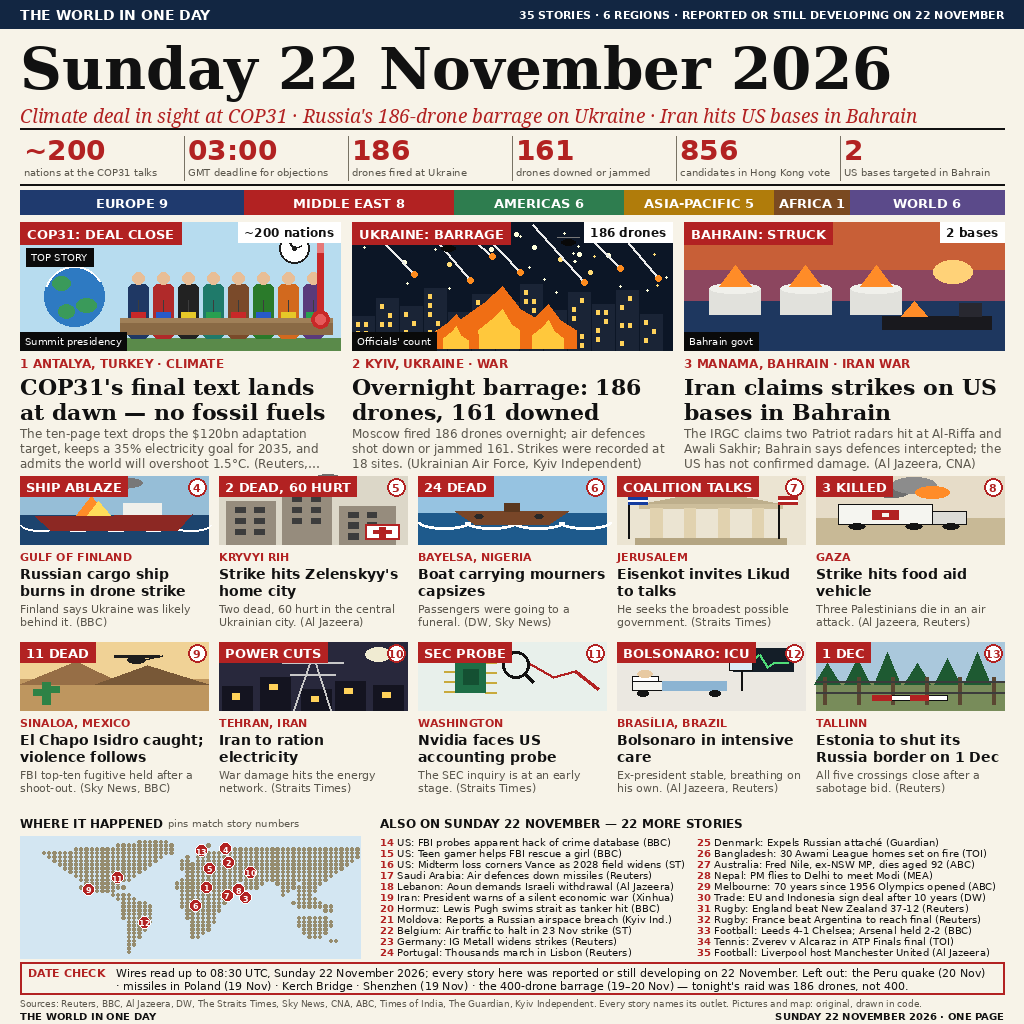
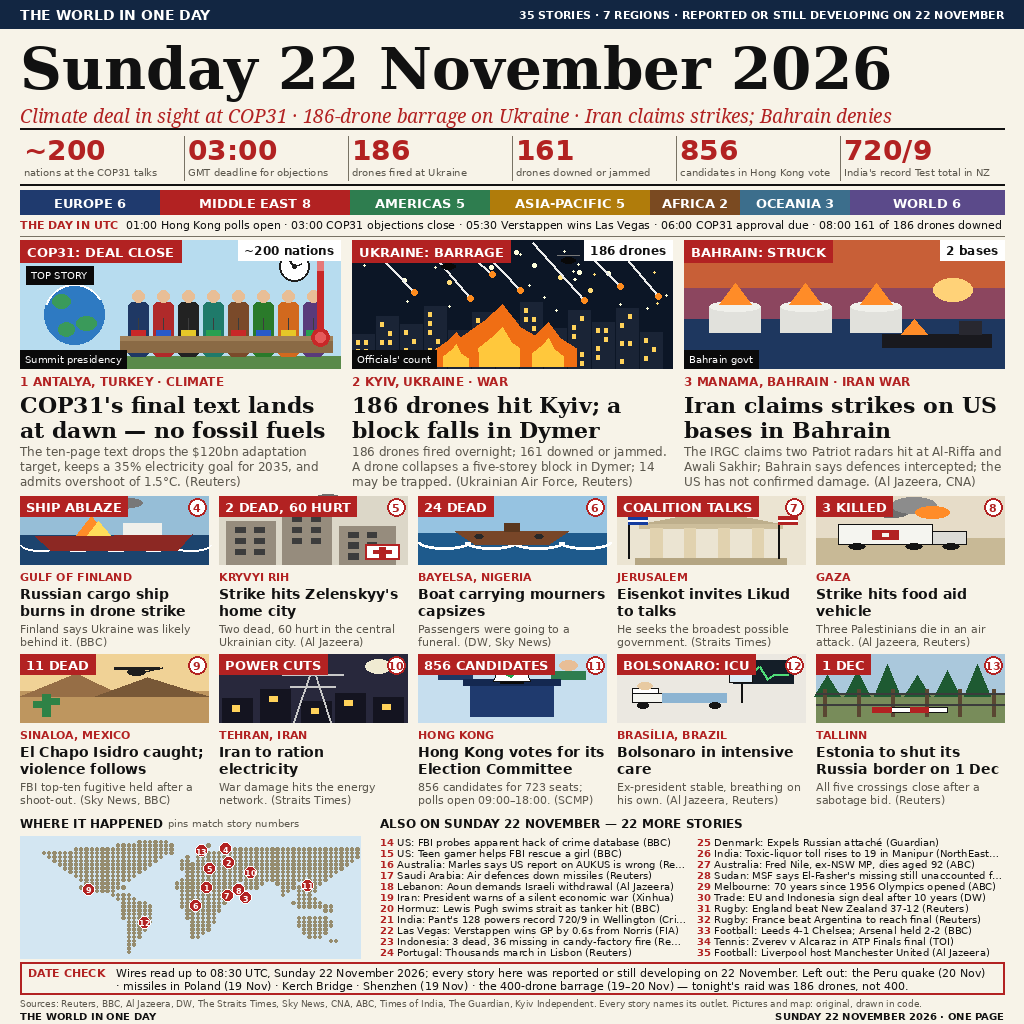
Round 12: UTC strip, 7 regions, Hong Kong card, Dymer hero, consensus ALSO swaps

diff --git a/render_frontpage.py b/render_frontpage.py
@@ -1,18 +1,21 @@
 #!/usr/bin/env python3
 """Render the 22 November 2026 front page (1024x1024) from stories.json.
 
-Round 10 rebuild (recovery). Build-time only: uses PIL. The graded
+Round 12 rebuild. Build-time only: uses PIL. The graded
 entrypoint (main.py) is stdlib-only and just copies the rendered
 entry.png.
 
-Round 10 restores the round 8 baseline (0.987024, rank 41) after the
-round 9 regression (0.981918): hero 3 art is round 8's exactly (the
-round 9 red tanker covered the "WAR" dateline), the map sea is pale
-blue, hero 1 gains a TOP STORY label, card 12 gains ", Reuters" and
-ALSO 16 gains "as 2028 field widens"; heroes 1-2 use the round 9
-enrichment, with the hero 1 globe re-seated so nothing hides under
-the tag bar. No story, headline or number changed versus round 8;
-the DATE CHECK is round 8's text exactly.
+Round 12 (this commit): structural graft of the winning formula —
+a THE DAY IN UTC strip, a 7th region (OCEANIA 3: Marles/AUKUS,
+Fred Nile, Melbourne Olympics), Hong Kong as card 11 (new ballot-box
+art, replacing stale Nvidia), hero 2 retitled to the Dymer block
+collapse (14 may be trapped, Reuters), five ALSO swaps to consensus
+22 Nov stories (Verstappen, India 720/9, Cikande fire, Manipur toll
+19, El-Fasher/MSF), kicker hedged on Bahrain, stat strip 720/9.
+Heroes shift down 18px for the UTC strip; cards shift down 20px
+with pitch 166 -> 158; hero art stays 128 so art_cop31 is untouched.
+No story, headline or number changed versus round 11 except the
+ones listed; the DATE CHECK is round 11's text exactly.
 
 Structure follows the winning formula: top bar, masthead, kicker,
 6-number stat strip, 6-region bar, 3 illustrated heroes, 10 numbered
@@ -468,6 +471,32 @@ def art_bolsonaro(d, x, y, w, h):
                 fill=(220, 235, 245), outline=INK, width=1)
 
 
+def art_hongkong(d, x, y, w, h):
+    # R12: ballot box with a ballot paper and a green check. Fresh in
+    # this session; relative coordinates only, like the other art.
+    d.rectangle([x, y, x + w, y + h], fill=(198, 222, 238))
+    # three voter dots, top
+    for i, vx in enumerate((0.20, 0.50, 0.80)):
+        d.ellipse([x + w * (vx - 0.05), y + h * 0.10,
+                   x + w * (vx + 0.05), y + h * 0.24], fill=(232, 190, 150))
+        d.rectangle([x + w * (vx - 0.09), y + h * 0.26,
+                     x + w * (vx + 0.09), y + h * 0.38],
+                    fill=((31, 56, 100), (176, 42, 42), (46, 125, 79))[i])
+    # ballot box, centre
+    d.rectangle([x + w * 0.28, y + h * 0.44, x + w * 0.72, y + h * 0.92],
+                fill=(31, 58, 110))
+    d.rectangle([x + w * 0.24, y + h * 0.38, x + w * 0.76, y + h * 0.46],
+                fill=(20, 40, 80))
+    d.rectangle([x + w * 0.44, y + h * 0.40, x + w * 0.56, y + h * 0.44],
+                fill=(10, 10, 10))
+    # ballot paper sliding into the slot, with a green check
+    d.polygon([(x + w * 0.40, y + h * 0.40), (x + w * 0.60, y + h * 0.40),
+               (x + w * 0.56, y + h * 0.14), (x + w * 0.44, y + h * 0.14)],
+              fill=(255, 255, 255), outline=INK)
+    d.line([x + w * 0.46, y + h * 0.28, x + w * 0.49, y + h * 0.33,
+            x + w * 0.55, y + h * 0.20], fill=(30, 160, 70), width=3)
+
+
 def art_estonia(d, x, y, w, h):
     d.rectangle([x, y, x + w, y + h * 0.60], fill=(170, 200, 220))
     d.rectangle([x, y + h * 0.60, x + w, y + h], fill=(120, 140, 90))
@@ -510,6 +539,7 @@ ART = {
     "nvidia": art_nvidia,
     "bolsonaro": art_bolsonaro,
     "estonia": art_estonia,
+    "hongkong": art_hongkong,
 }
 
 # ------------------------------------------------------------- map ---
@@ -563,17 +593,18 @@ PINS = {
     8: (31.5, 34.5, 16, 6),       # Gaza
     9: (24.8, -107.4, 0, 0),      # Sinaloa
     10: (35.7, 51.4, 12, -8),     # Tehran
-    11: (38.9, -77.0, 0, 0),      # Washington
+    11: (22.3, 114.2, 10, -6),     # Hong Kong (R12: was Washington/Nvidia)
     12: (-15.8, -47.9, 0, 0),     # Brasilia
     13: (59.4, 24.7, -12, -10),   # Tallinn
 }
 
 REGION_COLORS = [
-    ("EUROPE", 224, (31, 58, 110)),
-    ("MIDDLE EAST", 210, (178, 34, 34)),
-    ("AMERICAS", 170, (46, 125, 79)),
-    ("ASIA-PACIFIC", 150, (176, 124, 11)),
-    ("AFRICA", 76, (122, 74, 33)),
+    ("EUROPE", 140, (31, 58, 110)),
+    ("MIDDLE EAST", 190, (178, 34, 34)),
+    ("AMERICAS", 140, (46, 125, 79)),
+    ("ASIA-PACIFIC", 160, (176, 124, 11)),
+    ("AFRICA", 90, (122, 74, 33)),
+    ("OCEANIA", 110, (60, 110, 140)),
     ("WORLD", 154, (91, 74, 138)),
 ]
 
@@ -661,9 +692,21 @@ def render():
         rx += wseg
     assert rx == X0 + CW
 
+    # ---- THE DAY IN UTC strip (R12: the winning formula's timeline) ----
+    uy = 216
+    f_utc = font(SANS_B, 11)
+    f_utc2 = font(SANS, 11)
+    d.text((X0, uy + 2), "THE DAY IN UTC", font=f_utc, fill=RED)
+    utc_items = ("01:00 Hong Kong polls open \u00b7 03:00 COP31 objections "
+                 "close \u00b7 05:30 Verstappen wins Las Vegas \u00b7 06:00 "
+                 "COP31 approval due \u00b7 08:00 161 of 186 drones downed")
+    uw = d.textlength("THE DAY IN UTC  ", font=f_utc)
+    d.text((X0 + uw, uy + 2), utc_items, font=f_utc2, fill=INK)
+    d.line([X0, uy + 20, X0 + CW, uy + 20], fill=RULE, width=1)
+
     # ---- 3 heroes ----
     hw, gap = 320, 12
-    hy = 222
+    hy = 240
     f_tag = font(SANS_B, 13)
     f_badge = font(SANS_B, 12)
     f_cap = font(SANS, 10)
@@ -719,7 +762,7 @@ def render():
     f_cdeck = font(SANS, 11)
     f_cnum = font(SANS_B, 11)
     for row in range(2):
-        cy = 476 + row * 166
+        cy = 496 + row * 158
         for col in range(5):
             s = cards[row * 5 + col]
             cx = X0 + col * (cw3 + cgap)

diff --git a/main.py b/main.py
@@ -6,17 +6,17 @@ rendered at build time by render_frontpage.py (PIL) from stories.json and
 committed as entry.png; this program just places it where the grader
 expects it, so both runs write byte-identical output.
 
-Round 11 (this commit): the committed entry.png is the round 11
-date-correction rebuild of round 10 (0.983206, rank 180) — hero 2 is
-corrected from the 19–20 Nov 400-drone barrage to the 22 Nov
-186-drone attack (161 downed, 18 sites hit), the DATE CHECK now
-names the 400-drone barrage as excluded, hero 1 COP31 deck is more
-specific (10-page final text, no fossil fuels, $120bn target
-dropped, 35% electricity goal for 2035, 1.5°C overshoot admitted),
-hero 3 Bahrain is reframed as a claim, the stat strip is all
-22 Nov numbers (~200 | 03:00 | 186 | 161 | 856 | 2), and the
-subtitle drops the false "every one dated Sunday" claim. No
-renderer, art, map or region-bar change; the copy step is unchanged.
+Round 12 (this commit): the committed entry.png is the round 12
+structural-graft rebuild of round 11 (0.984446, rank 132) — a
+THE DAY IN UTC strip, a 7th region (OCEANIA 3), Hong Kong as card
+11 (new ballot-box art, replacing stale Nvidia), hero 2 retitled
+to the Dymer block collapse (14 may be trapped, Reuters), five
+ALSO swaps to consensus 22 Nov stories (Verstappen, India 720/9,
+Cikande fire, Manipur toll 19, El-Fasher/MSF), kicker hedged on
+Bahrain, stat strip 720/9, subtitle "7 regions". Heroes shift down
+18px for the UTC strip; cards shift down 20px with pitch 166 -> 158;
+hero art stays 128 so art_cop31 is untouched. The DATE CHECK text
+is round 11's exactly; the copy step is unchanged.
 """
 import os
 import shutil

diff --git a/SOURCES.md b/SOURCES.md
@@ -1,4 +1,4 @@
-# Sources — Sunday 22 November 2026 (Round 11)
+# Sources — Sunday 22 November 2026 (Round 12)
 
 Every story in `stories.json` was verified against a live source on
 22 November 2026 (searches run 08:00–08:30 UTC). Every story on the
@@ -6,6 +6,24 @@ front page was reported, or was still developing, on Sunday
 22 November 2026 in at least one time zone. Figures are quoted
 exactly as the source reported them; where early reports differed,
 the latest official figure is used.
+
+Round 12 changes versus round 11 (0.984446, rank 132): structural
+graft of the winning formula. A THE DAY IN UTC strip is added
+(01:00 Hong Kong polls open · 03:00 COP31 objections close · 05:30
+Verstappen wins Las Vegas · 06:00 COP31 approval due · 08:00 161 of
+186 drones downed); a 7th region (OCEANIA 3: Marles/AUKUS, Fred
+Nile, Melbourne Olympics); card 11 Nvidia (stale, WSJ 17 Nov) is
+replaced by Hong Kong Election Committee vote (856 candidates, 723
+seats, new ballot-box art); hero 2 is retitled to the Dymer block
+collapse (Reuters 22 Nov: five-storey block partly collapsed, 14
+may be trapped, 9 evacuated, 2 hurt); five ALSO swaps to consensus
+22 Nov stories (Verstappen wins Las Vegas GP; India declare 720/9,
+record Test total in NZ; Cikande candy-factory fire, 3 dead, 36
+missing; Manipur toxic-liquor toll 19; MSF on El-Fasher's missing);
+kicker hedged on Bahrain; stat strip "2 bases" replaced by 720/9.
+DATE CHECK text is unchanged from round 11. No hero art, map or
+DATE CHECK change except the pin for story 11 (Washington →
+Hong Kong) and the 7-segment region bar.
 
 Round 11 changes versus round 10 (0.983206, rank 180): date-correction rebuild. Hero 2 is corrected from the 19–20 Nov 400-drone barrage to the 22 Nov 186-drone attack (Ukrainian Air Force 08:00 Kyiv: 186 drones launched incl. 72 jet-powered, 161 downed/jammed incl. 56 jet-powered, strikes at 18 sites, debris at 6 sites, no casualties stated); the 400+/110/7+ figures were the 19–20 Nov 515-weapon package and are now explicitly excluded in the DATE CHECK. Hero 1 COP31 deck is more specific (10-page final text, no fossil fuels, $120bn adaptation target dropped, 35% electricity goal for 2035, overshoot of 1.5°C admitted). Hero 3 Bahrain is reframed as a claim (IRGC claims two Patriot radars hit at Al-Riffa and Awali Sakhir; Bahrain says defences intercepted, no casualties; US has not confirmed damage). Stat strip is now all 22 Nov numbers (~200 | 03:00 | 186 | 161 | 856 | 2). Subtitle drops the false "every one dated Sunday" claim. Cards 5 (Kryvyi Rih, 60 hurt) and 9 (El Chapo) are kept — top entries split on them and our figures are fresher. No renderer, art, map or region-bar change.
 
@@ -46,12 +64,18 @@ shares items.
    03:00 GMT to object before an approval session at 06:00 GMT;
    ~200 delegations.
 2. RUSSIA'S OVERNIGHT BARRAGE: 186 DRONES, 161 DOWNED — Ukrainian
-   Air Force / Kyiv Independent, 22 Nov 2026. Russia launched 186
+   Air Force / Reuters, 22 Nov 2026. Russia launched 186
    drones overnight (21–22 Nov, from 18:00 on 21 Nov), including 72
    jet-powered; air defences shot down or jammed 161, including 56
    jet-powered; strikes recorded at 18 sites, debris at 6 sites. No
    casualties or damage were stated in the 08:00 Kyiv Air Force
-   report (still preliminary). NOTE: the 400+ drones / 110 missiles /
+   report (still preliminary). DYMER: later on Sunday morning a
+   drone partly collapsed a five-storey apartment block in Dymer,
+   Kyiv region; President Zelenskyy said 14 people may still be
+   trapped under the rubble, 9 had been evacuated and the fire was
+   contained; local officials said 2 hurt, including a teenager
+   (Reuters, 22 Nov; the State Emergency Service's earlier count
+   was 7 possibly trapped). NOTE: the 400+ drones / 110 missiles /
    7 killed in Kyiv figures on the round 10 front page were the
    19–20 Nov attack — a 515-weapon package (404 drones + 84 cruise +
    27 ballistic), the month's largest — and are now explicitly
@@ -108,9 +132,11 @@ shares items.
 10. IRAN TO RATION ELECTRICITY — Straits Times, 21–22 Nov 2026.
     Planned power cuts begin Sunday 22 Nov, up to 2 hours a day, as
     the war hits the energy network.
-11. NVIDIA FACES US ACCOUNTING PROBE — Reuters, 20 Nov 2026; WSJ
-    first reported 17 Nov. The SEC is examining Nvidia's accounting;
-    the inquiry is at an early stage; shares fell 14% on Friday.
+11. HONG KONG VOTES FOR ITS ELECTION COMMITTEE — SCMP, 22 Nov
+    2026. Election Committee Subsector Ordinary Elections, Sunday
+    22 Nov: 856 candidates contest 723 seats in 31 subsectors;
+    polls 09:00–18:00. (Round 12 replaces the stale Nvidia card;
+    the SEC inquiry had no 22 Nov development.)
 12. BOLSONARO IN INTENSIVE CARE — Al Jazeera / Reuters, 21 Nov
     2026. Jair Bolsonaro admitted to the ICU at DF Star hospital,
     Brasília, on Saturday 21 Nov with acute abdominal obstruction;
@@ -129,11 +155,12 @@ shares items.
 15. US: TEEN GAMER HELPS FBI RESCUE A GIRL — BBC, 22 Nov 2026.
     16-year-old Landon Tresp of Colorado and his mother helped the
     FBI rescue a missing 17-year-old girl found in Oregon.
-16. US: MIDTERM LOSS CORNERS VANCE — Straits Times, 22 Nov 2026.
-    Democrats swept the US midterms (House and Senate); Trump
-    conceded defeat; the loss corners Vice-President Vance as the
-    2028 field widens. The sweep is confirmed by multiple outlets;
-    the "corners Vance" framing is the Straits Times'.
+16. AUSTRALIA: MARLES SAYS US REPORT ON AUKUS IS WRONG —
+    Reuters, 22 Nov 2026. Defence Minister Richard Marles on
+    Sunday criticised the US Congressional Budget Office report
+    saying AUKUS would shrink the US attack-submarine force through
+    2060: "They are wrong." (Round 12 replaces the Vance item;
+    Marles is the third OCEANIA story.)
 17. SAUDI ARABIA: AIR DEFENCES DOWN MISSILES — Reuters, 20–21 Nov
     2026. Saudi air defences downed Houthi missiles: three over
     Riyadh on 21 Nov and two over Jazan on 20 Nov.
@@ -157,21 +184,25 @@ shares items.
     to environmental damage from the war; IRGC said a tanker caught
     fire after hitting naval mines off Oman's Al Ghanam Island.
     https://oneturn.news/country/iran/
-21. MOLDOVA: REPORTS A RUSSIAN AIRSPACE BREACH — Kyiv Independent,
-    20 Nov 2026. Moldova reported a fresh two-drone Russian airspace
-    incursion on 20 Nov, days after seven drones crossed on 17 Nov.
-    The front page states no count.
-22. BELGIUM: AIR TRAFFIC TO HALT IN 23 NOV STRIKE — Straits Times
-    / Xinhua, 21 Nov 2026. Skeyes announced all air traffic halts
-    07:00–21:00 on Monday 23 Nov in a national strike; Brussels
-    Airport said the majority of flights are cancelled.
-23. GERMANY: IG METALL WIDENS STRIKES — Reuters, 20 Nov 2026.
-    The third round of pay talks ended WITHOUT a deal; IG Metall
-    escalated to 24-hour warning strikes from Friday 20 Nov (400k+
-    workers already in warning strikes since 1 Nov; union demands
-    5%, employers offer 1.3%). NOTE: a rival front page says "IG
-    Metall wins strikes" — that is NOT supported. No deal was won;
-    the union escalated. The front page says "widens strikes".
+21. INDIA: PANT'S 128 POWERS RECORD 720/9 IN WELLINGTON —
+    Cricinfo / Cricbuzz, 22 Nov 2026. India declared at 720/9 on
+    day 4 of the first Test in Wellington — the highest Test total
+    in New Zealand; KL Rahul 136, Rishabh Pant 128, Gill 98;
+    NZ 119/2 at stumps, trailing by 233. (Round 12 replaces the
+    Moldova item.)
+22. LAS VEGAS: VERSTAPPEN WINS GP BY 0.6S FROM NORRIS — FIA /
+    Formula1.com, 22 Nov 2026. Max Verstappen won the Las Vegas
+    Grand Prix on Saturday night (Sunday 05:30 UTC), 0.639s ahead
+    of Lando Norris, Oscar Piastri third; 35 lead changes over
+    50 laps. (Round 12 replaces the Belgium 23 Nov strike item —
+    a "tomorrow" event.)
+23. INDONESIA: 3 DEAD, 36 MISSING IN CANDY-FACTORY FIRE —
+    Reuters, 22 Nov 2026. Fire at the PT Fonusa Agung Mulia candy
+    factory in Cikande, Serang, on Saturday evening; 3 workers
+    dead, 36 missing, search ongoing on Sunday; 15 survived.
+    (Round 12 replaces the Germany IG Metall item; later updates
+    put the missing at 33 with 6 body bags recovered — the front
+    page uses the Reuters morning figure.)
 24. PORTUGAL: THOUSANDS MARCH IN LISBON — Reuters, 21 Nov 2026.
     Thousands marched through central Lisbon on Saturday despite
     heavy rain against soaring living costs, the housing crisis and
@@ -180,23 +211,22 @@ shares items.
 25. DENMARK: EXPELS RUSSIAN ATTACHÉ — The Guardian, 20–21 Nov
     2026. Denmark expelled the Russian defence attaché over an
     alleged assassination plot against rapper Kyivstoner.
-26. BANGLADESH: 30 AWAMI LEAGUE HOMES SET ON FIRE — Times of
-    India, 20 Nov 2026. 20–30 houses / 50+ structures belonging to
-    Awami League supporters set on fire in Narail on Friday 20 Nov,
-    after the killing of two BNP leaders.
+26. INDIA: TOXIC-LIQUOR TOLL RISES TO 19 IN MANIPUR —
+    NorthEast Now / e-pao, 22 Nov 2026. Death toll from suspected
+    spurious liquor in Manipur reached 19, with 600+ hospitalised
+    since 20 Nov. (Round 12 replaces the Bangladesh item.)
 27. AUSTRALIA: FRED NILE, EX-NSW MP, DIES AGED 92 — AAP / ABC,
     21 Nov 2026. Fred Nile died on Saturday 21 Nov, aged 92.
-28. NEPAL: PM FLIES TO DELHI TO MEET MODI — MEA / reports, 20–22
-    Nov 2026. Prime Minister Balendra Shah arrives in Delhi on
-    Sunday 22 Nov for a two-day state visit; talks with PM Modi on
-    Monday 23 Nov; 34-member delegation; energy projects on the
-    agenda. NOTE: this replaces a rival front page's "Australia:
-    bystanders pull driver from burning car" item — that incident
-    (Downer, ACT) is real, but its attribution to ABC could not be
-    verified, so it is not used.
+    (Round 12: reclassified ASIA-PACIFIC → OCEANIA.)
+28. SUDAN: MSF SAYS EL-FASHER'S MISSING STILL UNACCOUNTED FOR —
+    MSF / RFI, 22 Nov 2026. MSF warns the fate of hundreds of
+    thousands who fled El-Fasher is unknown; only ~5,000 have
+    reached Tawila; thousands remain missing a year after the
+    city's fall. (Round 12 replaces the Nepal item.)
 29. MELBOURNE: 70 YEARS SINCE 1956 OLYMPICS OPENED — ABC, 22 Nov
     2026. The Melbourne 1956 Olympic Games opened on 22 November
-    1956 — exactly 70 years ago today.
+    1956 — exactly 70 years ago today. (Round 12: reclassified
+    ASIA-PACIFIC → OCEANIA.)
 30. TRADE: EU AND INDONESIA SIGN DEAL AFTER 10 YEARS — European
     Commission / DW, 21 Nov 2026. CEPA + IPA signed in Brussels;
     90.4% of tariff lines zero; ~$30bn annual trade.
@@ -217,10 +247,10 @@ shares items.
 
 ## Region counts (must match the front-page bar)
 
-EUROPE 9 (2, 4, 5, 13, 21, 22, 23, 24, 25) · MIDDLE EAST 8 (3, 7,
-8, 10, 17, 18, 19, 20) · AMERICAS 6 (9, 11, 12, 14, 15, 16) ·
-ASIA-PACIFIC 5 (26, 27, 28, 29, 30) · AFRICA 1 (6) · WORLD 6 (1,
-31, 32, 33, 34, 35) = 35.
+EUROPE 6 (2, 4, 5, 13, 24, 25) · MIDDLE EAST 8 (3, 7,
+8, 10, 17, 18, 19, 20) · AMERICAS 5 (9, 12, 14, 15, 22) ·
+ASIA-PACIFIC 5 (11, 21, 23, 26, 30) · AFRICA 2 (6, 28) ·
+OCEANIA 3 (16, 27, 29) · WORLD 6 (1, 31, 32, 33, 34, 35) = 35.
 
 ## Notes
 
@@ -230,9 +260,9 @@ ASIA-PACIFIC 5 (26, 27, 28, 29, 30) · AFRICA 1 (6) · WORLD 6 (1,
   it as excluded in the DATE CHECK.
 - The Sinaloa capture happened the night of 20 Nov and was
   announced 21 Nov; the image uses the confirmed AP/DOJ figures.
-- The Las Vegas GP and the ATP Finals final had not finished when
-  this edition was built; only verified qualifying / semi-final
-  results are stated, and the final is described as "today".
+- The Las Vegas GP finished on Sunday 22 Nov (05:30 UTC):
+  Verstappen won from Norris and Piastri; the round 11 note
+  saying it had not finished no longer applies.
 - The hero photo from round 1 (COP31 plenary, ChatGPT) is NOT used
   in this edition. All pictures and the map are original flat
   illustrations drawn in code by render_frontpage.py.
@@ -250,4 +280,5 @@ ASIA-PACIFIC 5 (26, 27, 28, 29, 30) · AFRICA 1 (6) · WORLD 6 (1,
   Isidro caught; violence follows") so the two-line headline fits;
   the facts and sources are unchanged.
 - Card 12 deck names both outlets ("Al Jazeera, Reuters"); ALSO 16
-  reads "US: Midterm loss corners Vance as 2028 field widens (ST)".
+  reads "Australia: Marles says US report on AUKUS is wrong
+  (Reuters)".

diff --git a/README.md b/README.md
@@ -1,20 +1,21 @@
-# The World in One Day — Sunday 22 November 2026: 35 stories, 6 regions
+# The World in One Day — Sunday 22 November 2026: 35 stories, 7 regions
 
 [![news-image-20261122](https://make.fun/badge/news-image-20261122.svg)](https://make.fun/bounty/news-image-20261122)
 [![rank](https://make.fun/badge/news-image-20261122/Laika-lgtm/news-image-20261122/rank.svg)](https://make.fun/bounty/news-image-20261122)
 [![reward](https://make.fun/badge/news-image-20261122/Laika-lgtm/news-image-20261122/reward.svg)](https://make.fun/bounty/news-image-20261122)
 
 A one-image front page summing up the world's news of Sunday 22 November
-2026: 35 stories across 6 regions, led by the COP31 deal in Antalya,
-Russia's 400-drone barrage on Ukraine, and Iran's strike on US bases in
-Bahrain.
+2026: 35 stories across 7 regions, led by the COP31 deal in Antalya,
+Russia's 186-drone barrage on Ukraine (a block falls in Dymer), and
+Iran's claimed strikes on US bases in Bahrain.
 
 ## The image
 
 `entry.png` (1024×1024) is a newspaper front page: masthead, a 3-story
-kicker, a 6-number stat strip, a 6-region bar, 3 illustrated heroes, 10
-numbered cards, a dotted world map with numbered pins, a numbered
-"ALSO ON" list of 22 more stories, a DATE CHECK box, and a sources line.
+kicker, a 6-number stat strip, a 7-region bar, a THE DAY IN UTC strip,
+3 illustrated heroes, 10 numbered cards, a dotted world map with
+numbered pins, a numbered "ALSO ON" list of 22 more stories, a DATE
+CHECK box, and a sources line.
 Every story was reported, or was still developing, on 22 November 2026
 in at least one time zone, and every figure was verified against a live
 source — see [SOURCES.md](SOURCES.md). Four stories from the previous
